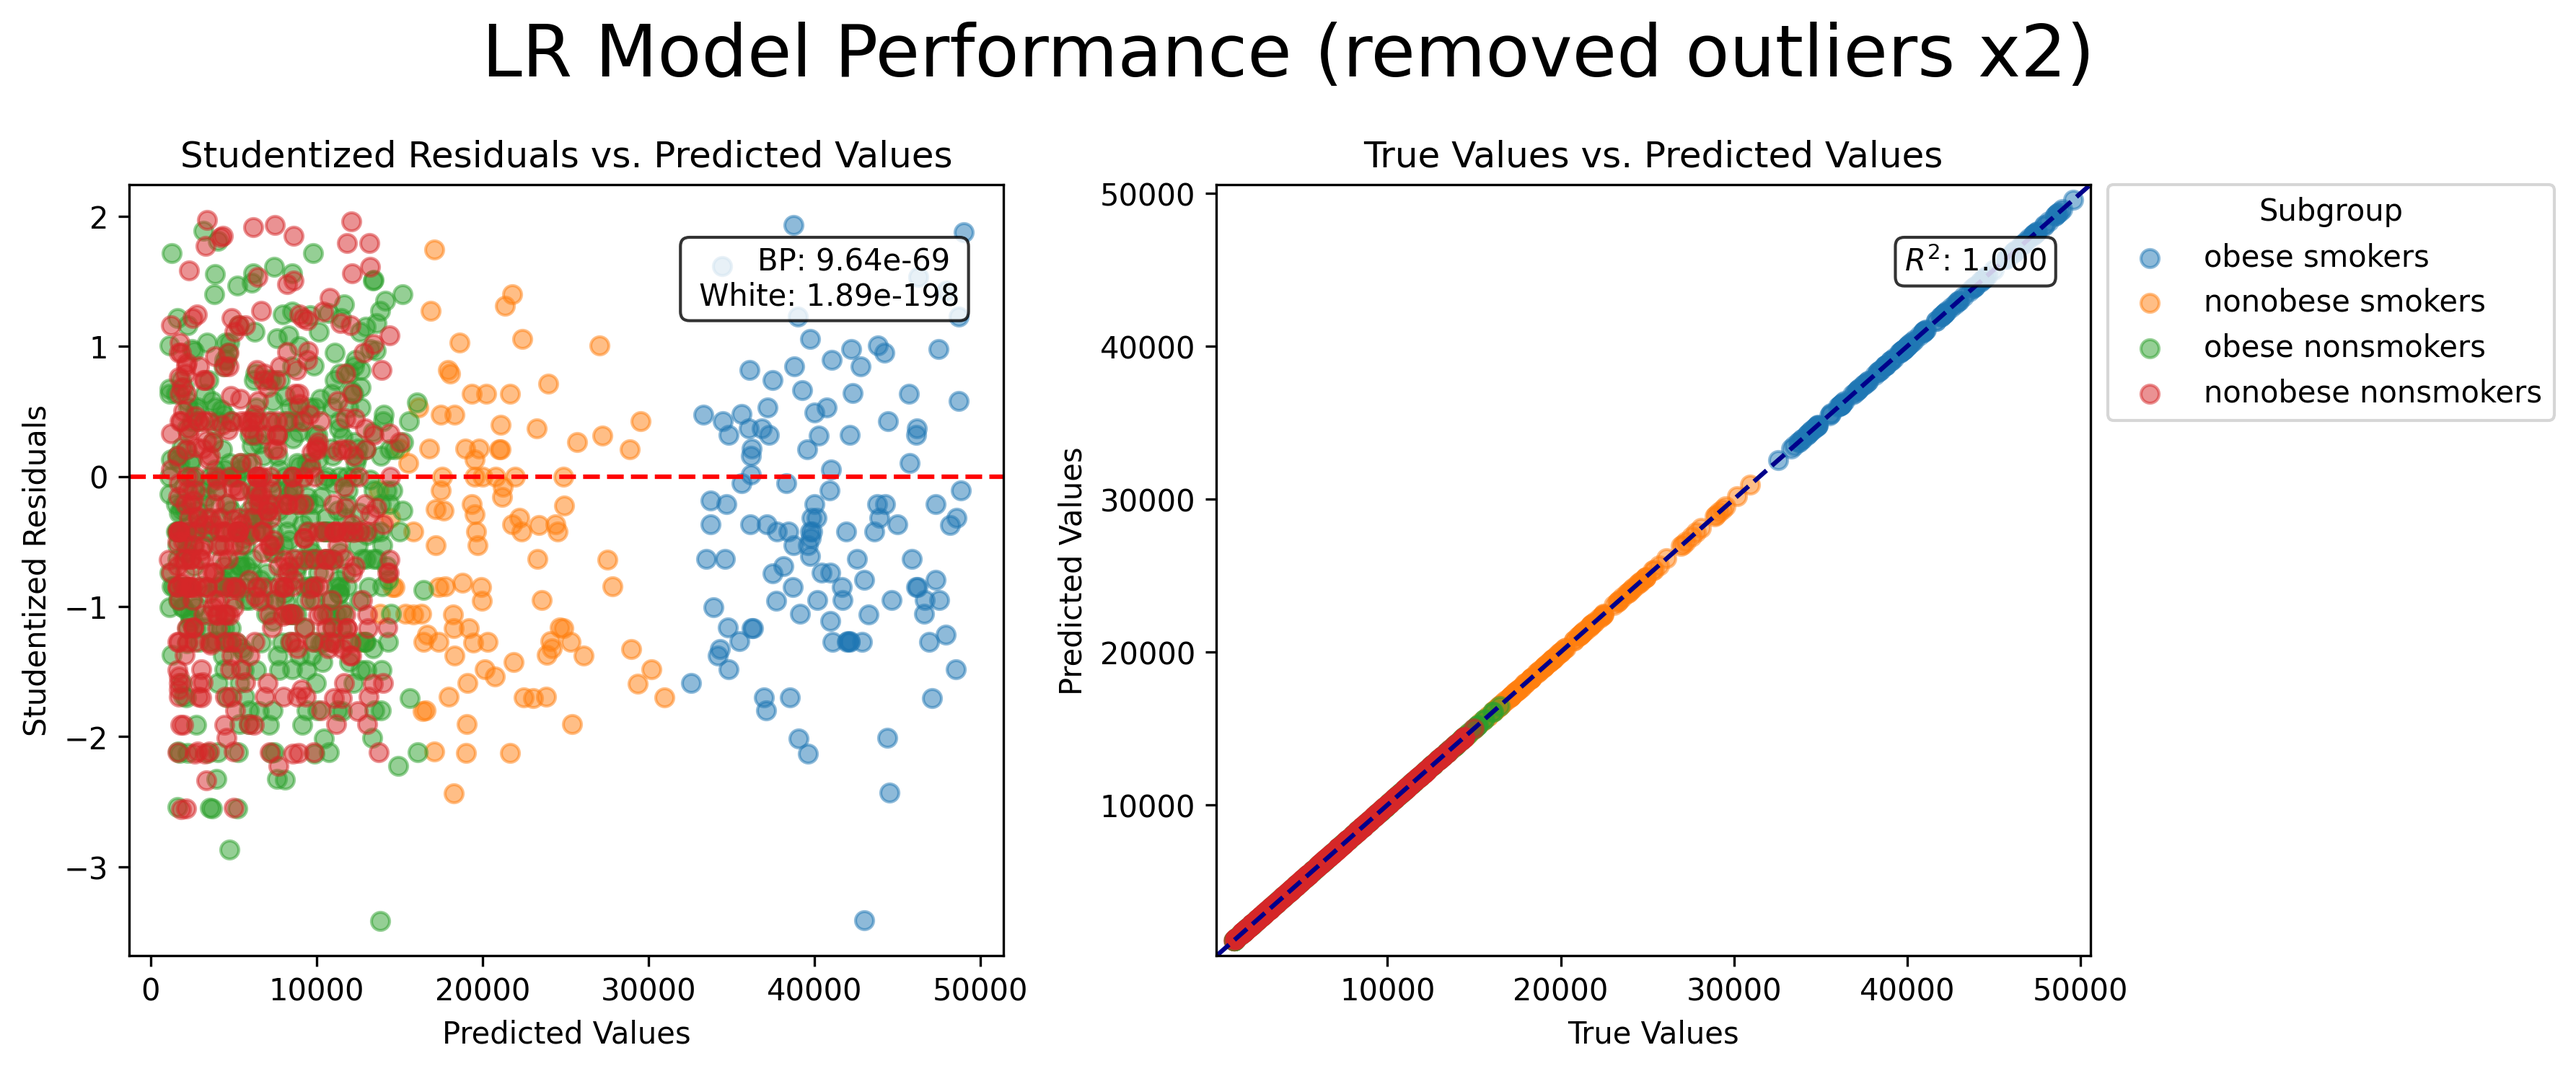
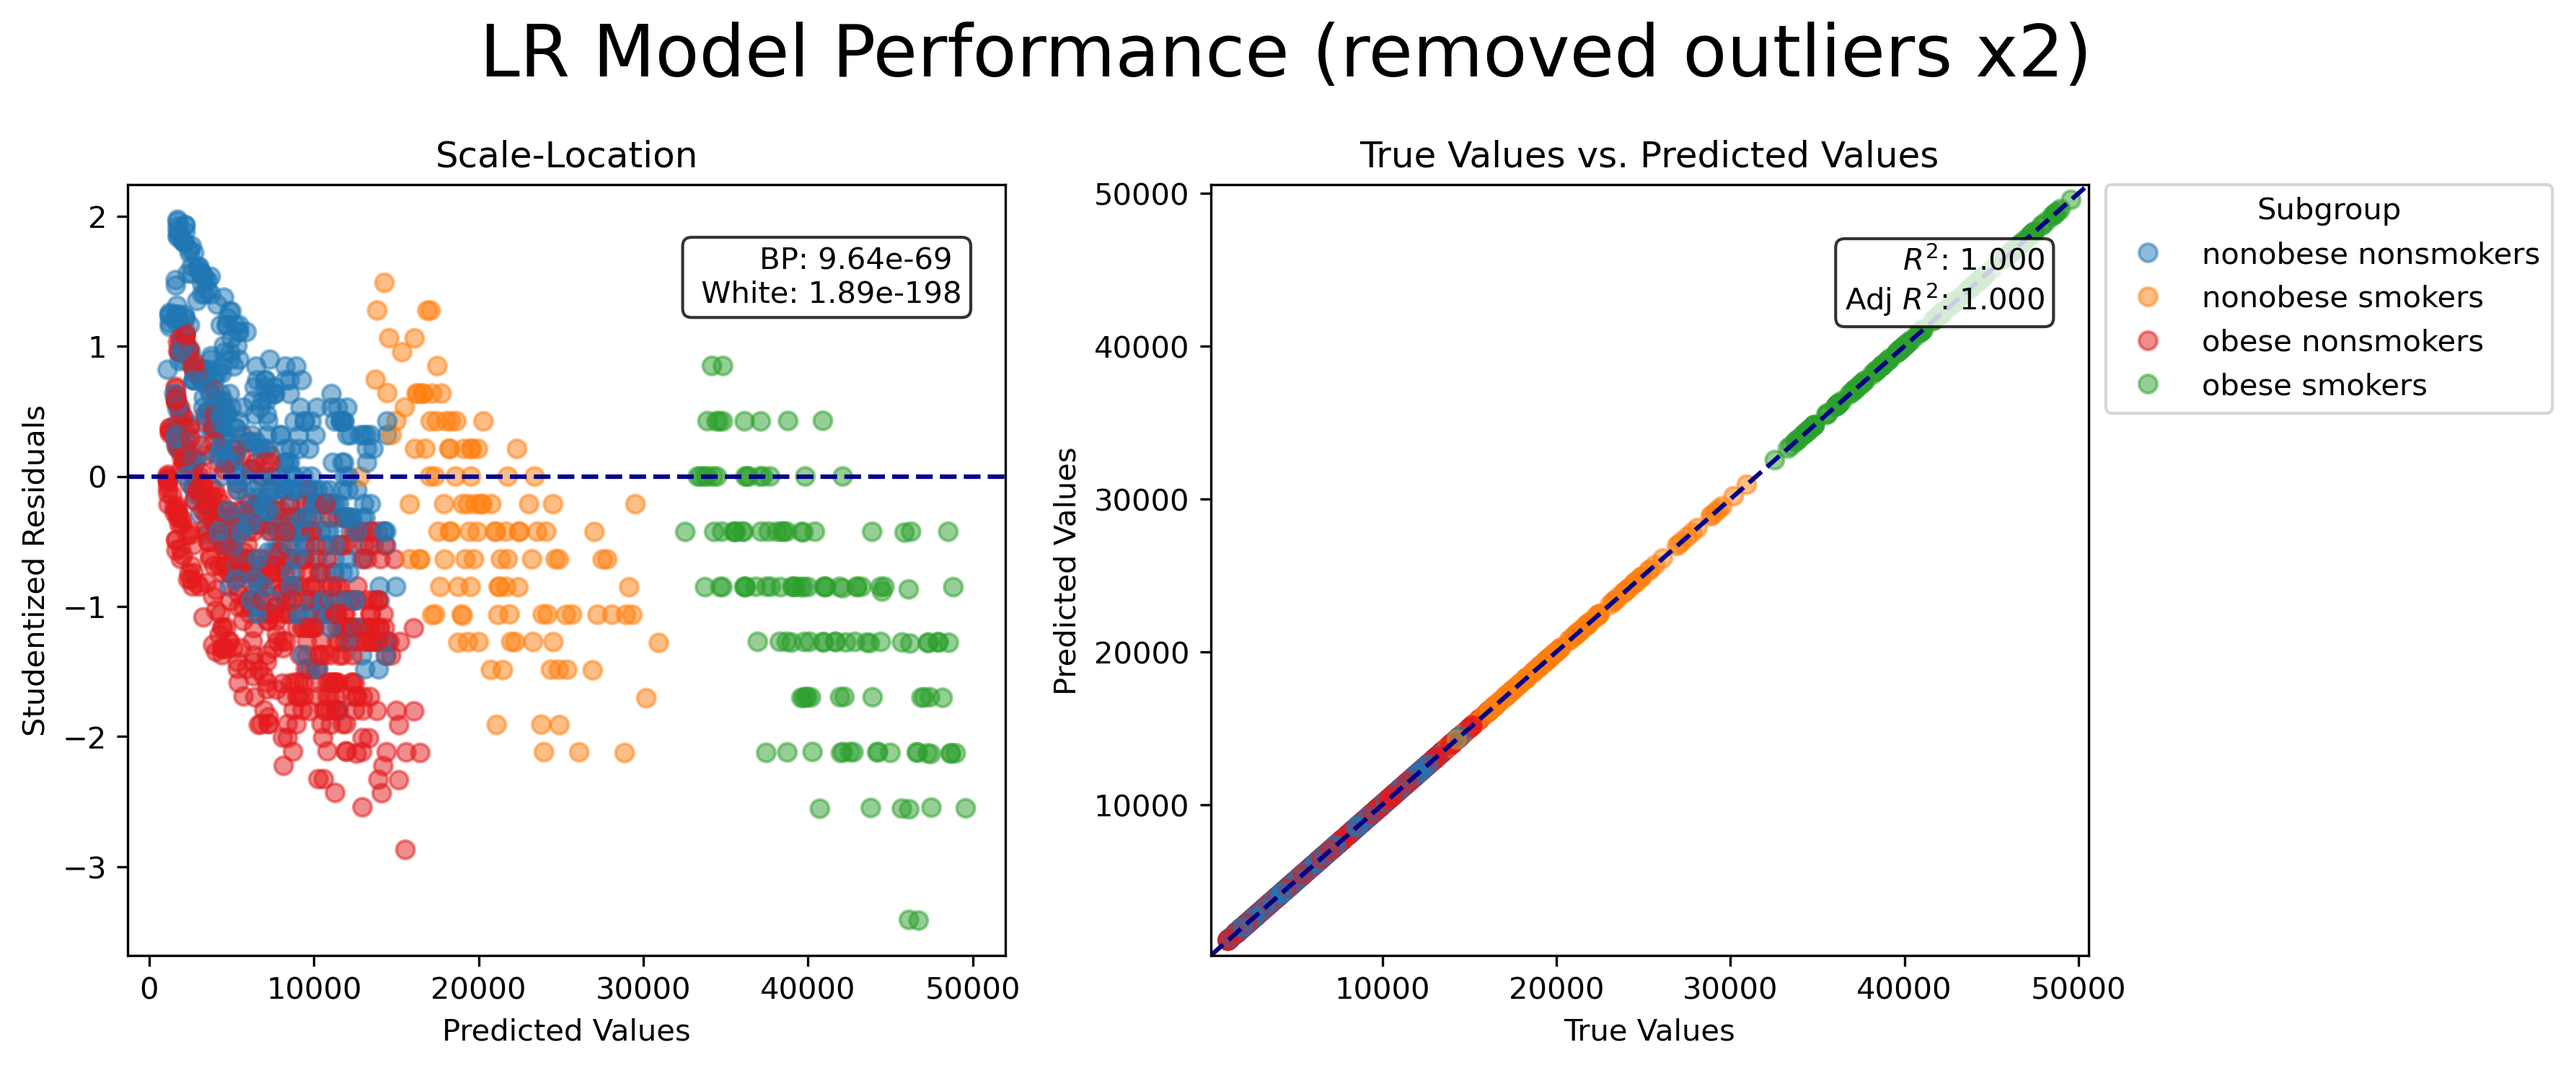
updated plots with new labels

diff --git a/cost_lin_reg.py b/cost_lin_reg.py
@@ -400,7 +400,7 @@ sm_lin_reg_1_0, sm_y_pred_1_0, het_results_1_0 = fit_lr_model_results(new_X_1, y
 
 # Plot model with subgrouping
 file_name_1 = '1_bmi_30_feature_grouped'
-sm_lin_reg_1, sm_y_pred_1, het_results_1 = fit_lr_model_results(new_X_1, y, title_1, subgroup=False, save_img=True, filename_unique=file_name_1)
+sm_lin_reg_1, sm_y_pred_1, het_results_1 = fit_lr_model_results(new_X_1, y, title_1, subgroup=False, save_img=False, filename_unique=file_name_1)
 
 # Organize model performance metrics
 summary_df_1 = sm_results_to_df(sm_lin_reg_1.summary())
@@ -513,22 +513,34 @@ plt.legend()
 # All features
 coeff_df_new = coeff_df.apply(pd.to_numeric)
 
-# =============================
-# Drop variables whose coefficients don't change much
-# =============================
+# Replace NaN with 0
+coeff_df_new = coeff_df_new.replace(np.nan, 0)
 
+# Separate new and old features
+num_orig_features = 9
+orig_features_df = coeff_df_new.iloc[0:num_orig_features]
+new_features_df = coeff_df_new.iloc[num_orig_features:len(coeff_df_new.index)]
+
+# Separate smoker variable out from orig_features_df as its scale is much larger
+smoker_df = orig_features_df.loc['smoker_yes'].to_frame().T
+orig_features_no_smoker = orig_features_df.drop(['smoker_yes'], axis=0)
+
+# Plot coefficients
+dh.plot_coefficient_df(smoker_df, orig_features_no_smoker, new_features_df)
+
+
+# =============================
+# Drop a few of the mostly-static coefficients
+# =============================
 # Drop variables that don't change much: children, sex_male, all regions, const.
 drop_var = ['region_northwest', 'region_southeast', 'region_southwest', 'const']
 coeff_df_new = coeff_df_new.drop(drop_var, axis=0)
-
-# Replace NaN with 0
-coeff_df_new = coeff_df_new.replace(np.nan, 0)
 
 # Separate new and old features
 orig_features_df = coeff_df_new.iloc[0:5]
 new_features_df = coeff_df_new.iloc[5:len(coeff_df_new.index)]
 
-# Separate smoker variable out from orig_features_df
+# Separate smoker variable out from orig_features_df as its scale is much larger
 smoker_df = orig_features_df.loc['smoker_yes'].to_frame().T
 orig_features_no_smoker = orig_features_df.drop(['smoker_yes'], axis=0)
 
@@ -551,6 +563,15 @@ het_stats = sm_results_df.loc[['bp_lm_p', 'white_lm_p']]
 
 # Plot model performance metrics
 dh.plot_model_metrics_df(max_e_df, error_metrics, r_metrics, het_stats)
+
+
+
+# =======================================================================================
+# Removes features with minimal effect on model (coefficients close to zero)
+# =======================================================================================
+
+
+
 
 # =======================================================================================
 # Outlier Analysis
